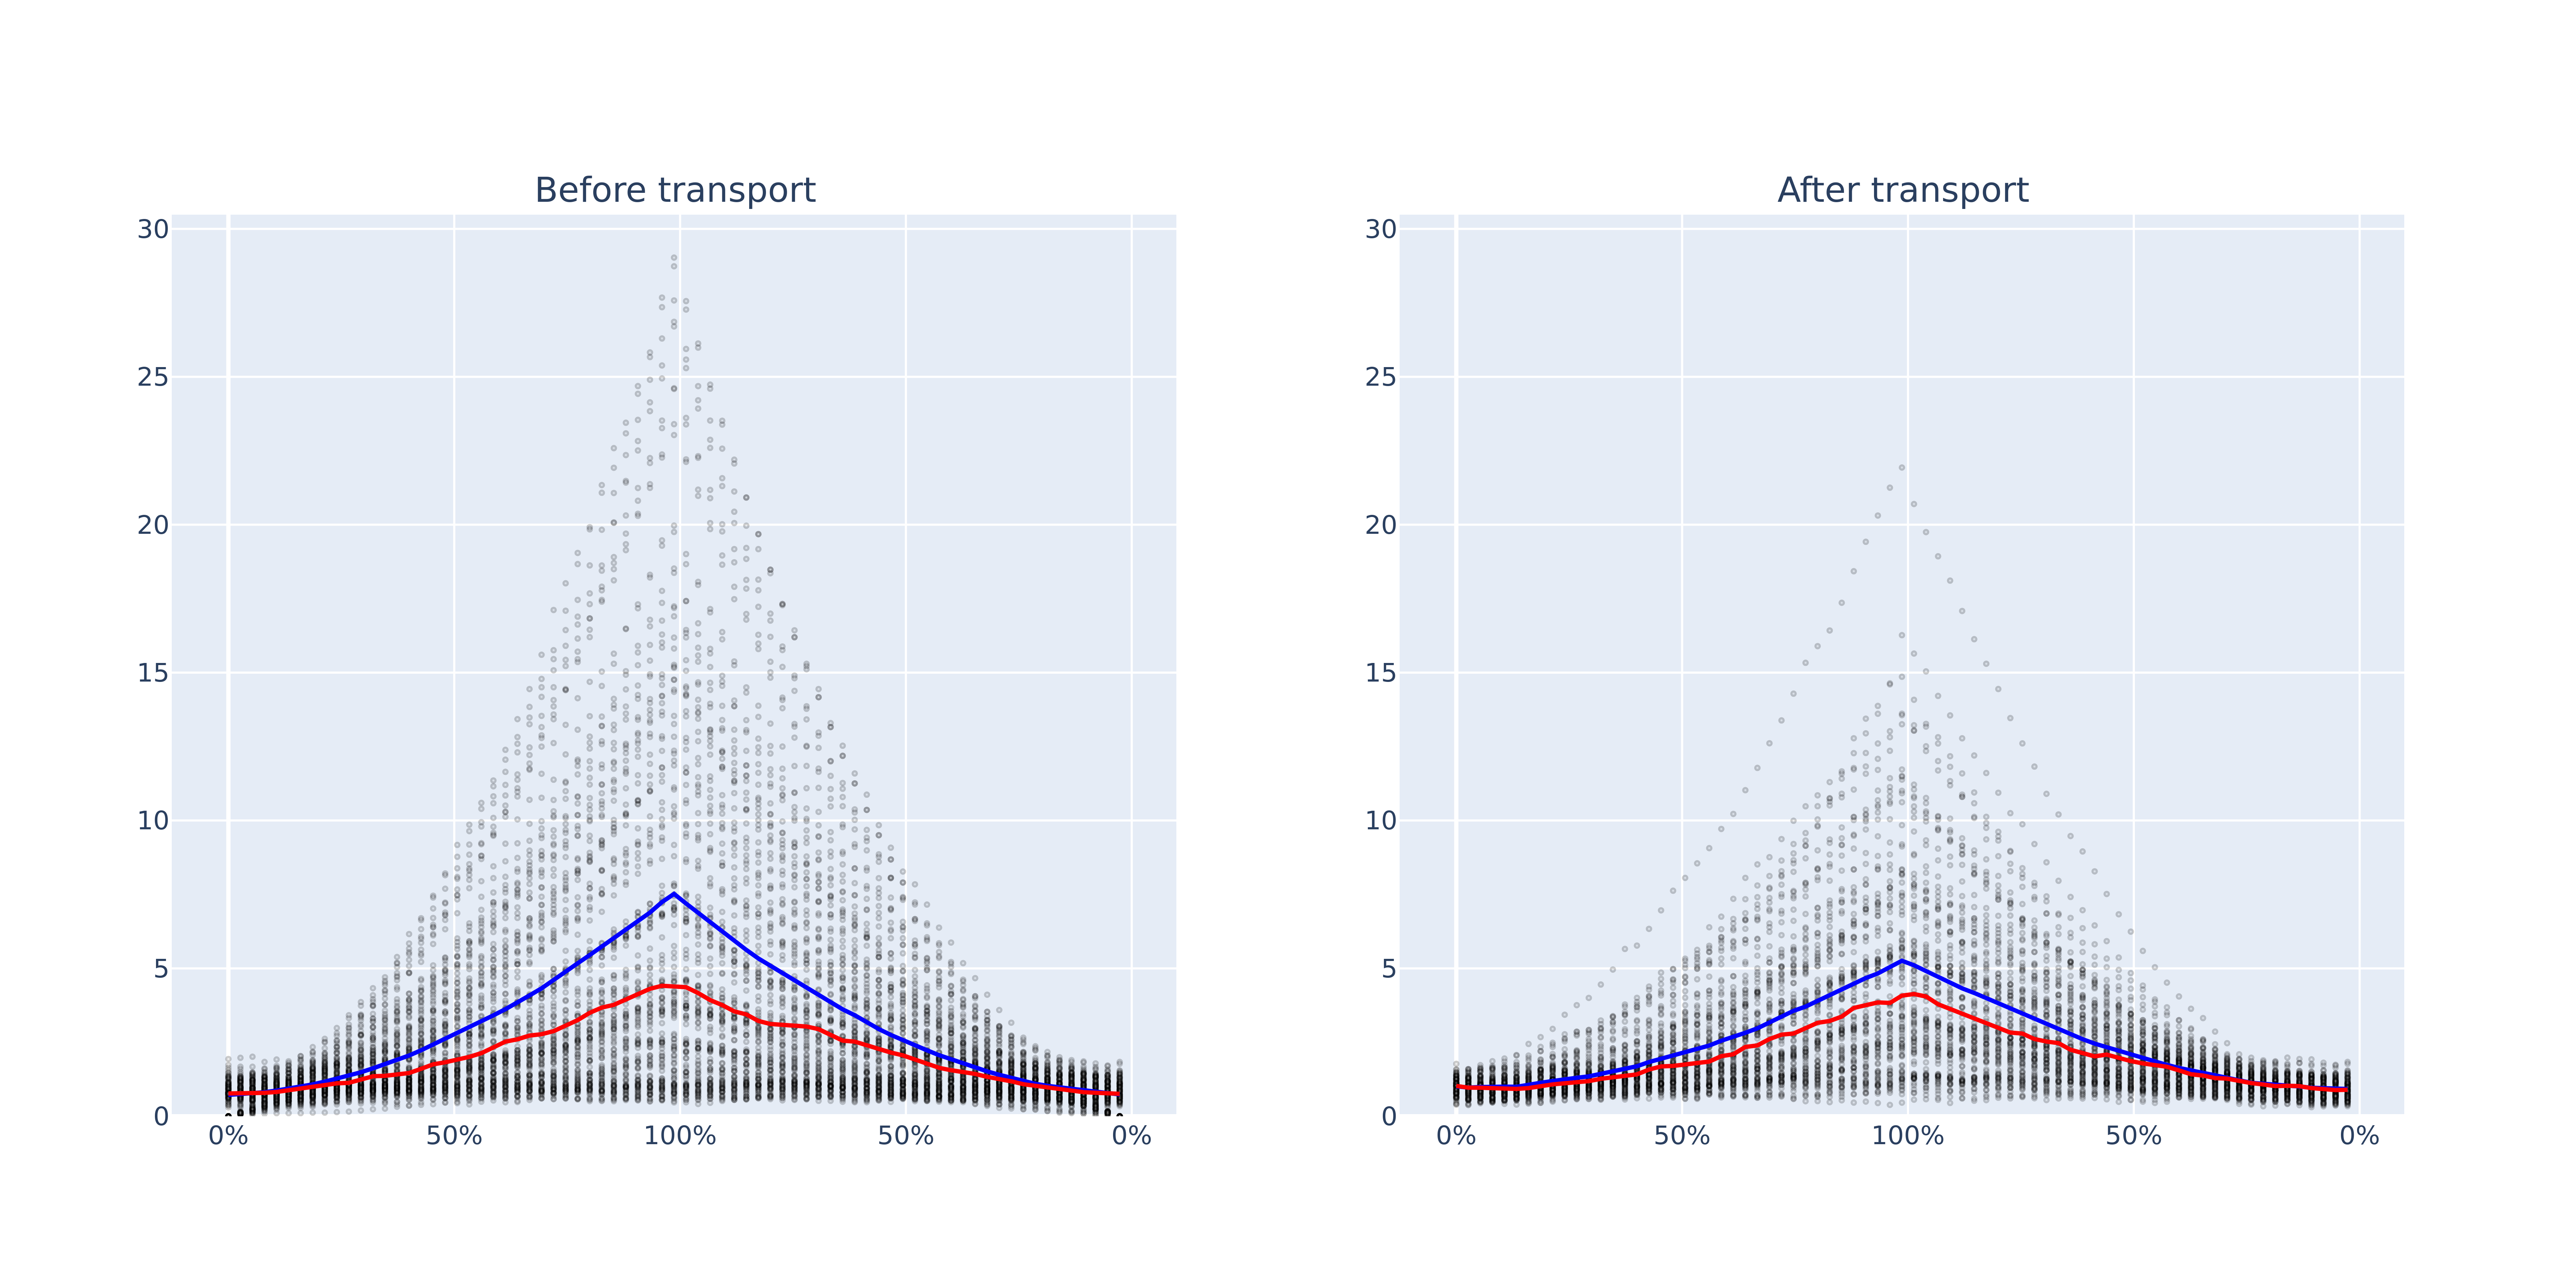
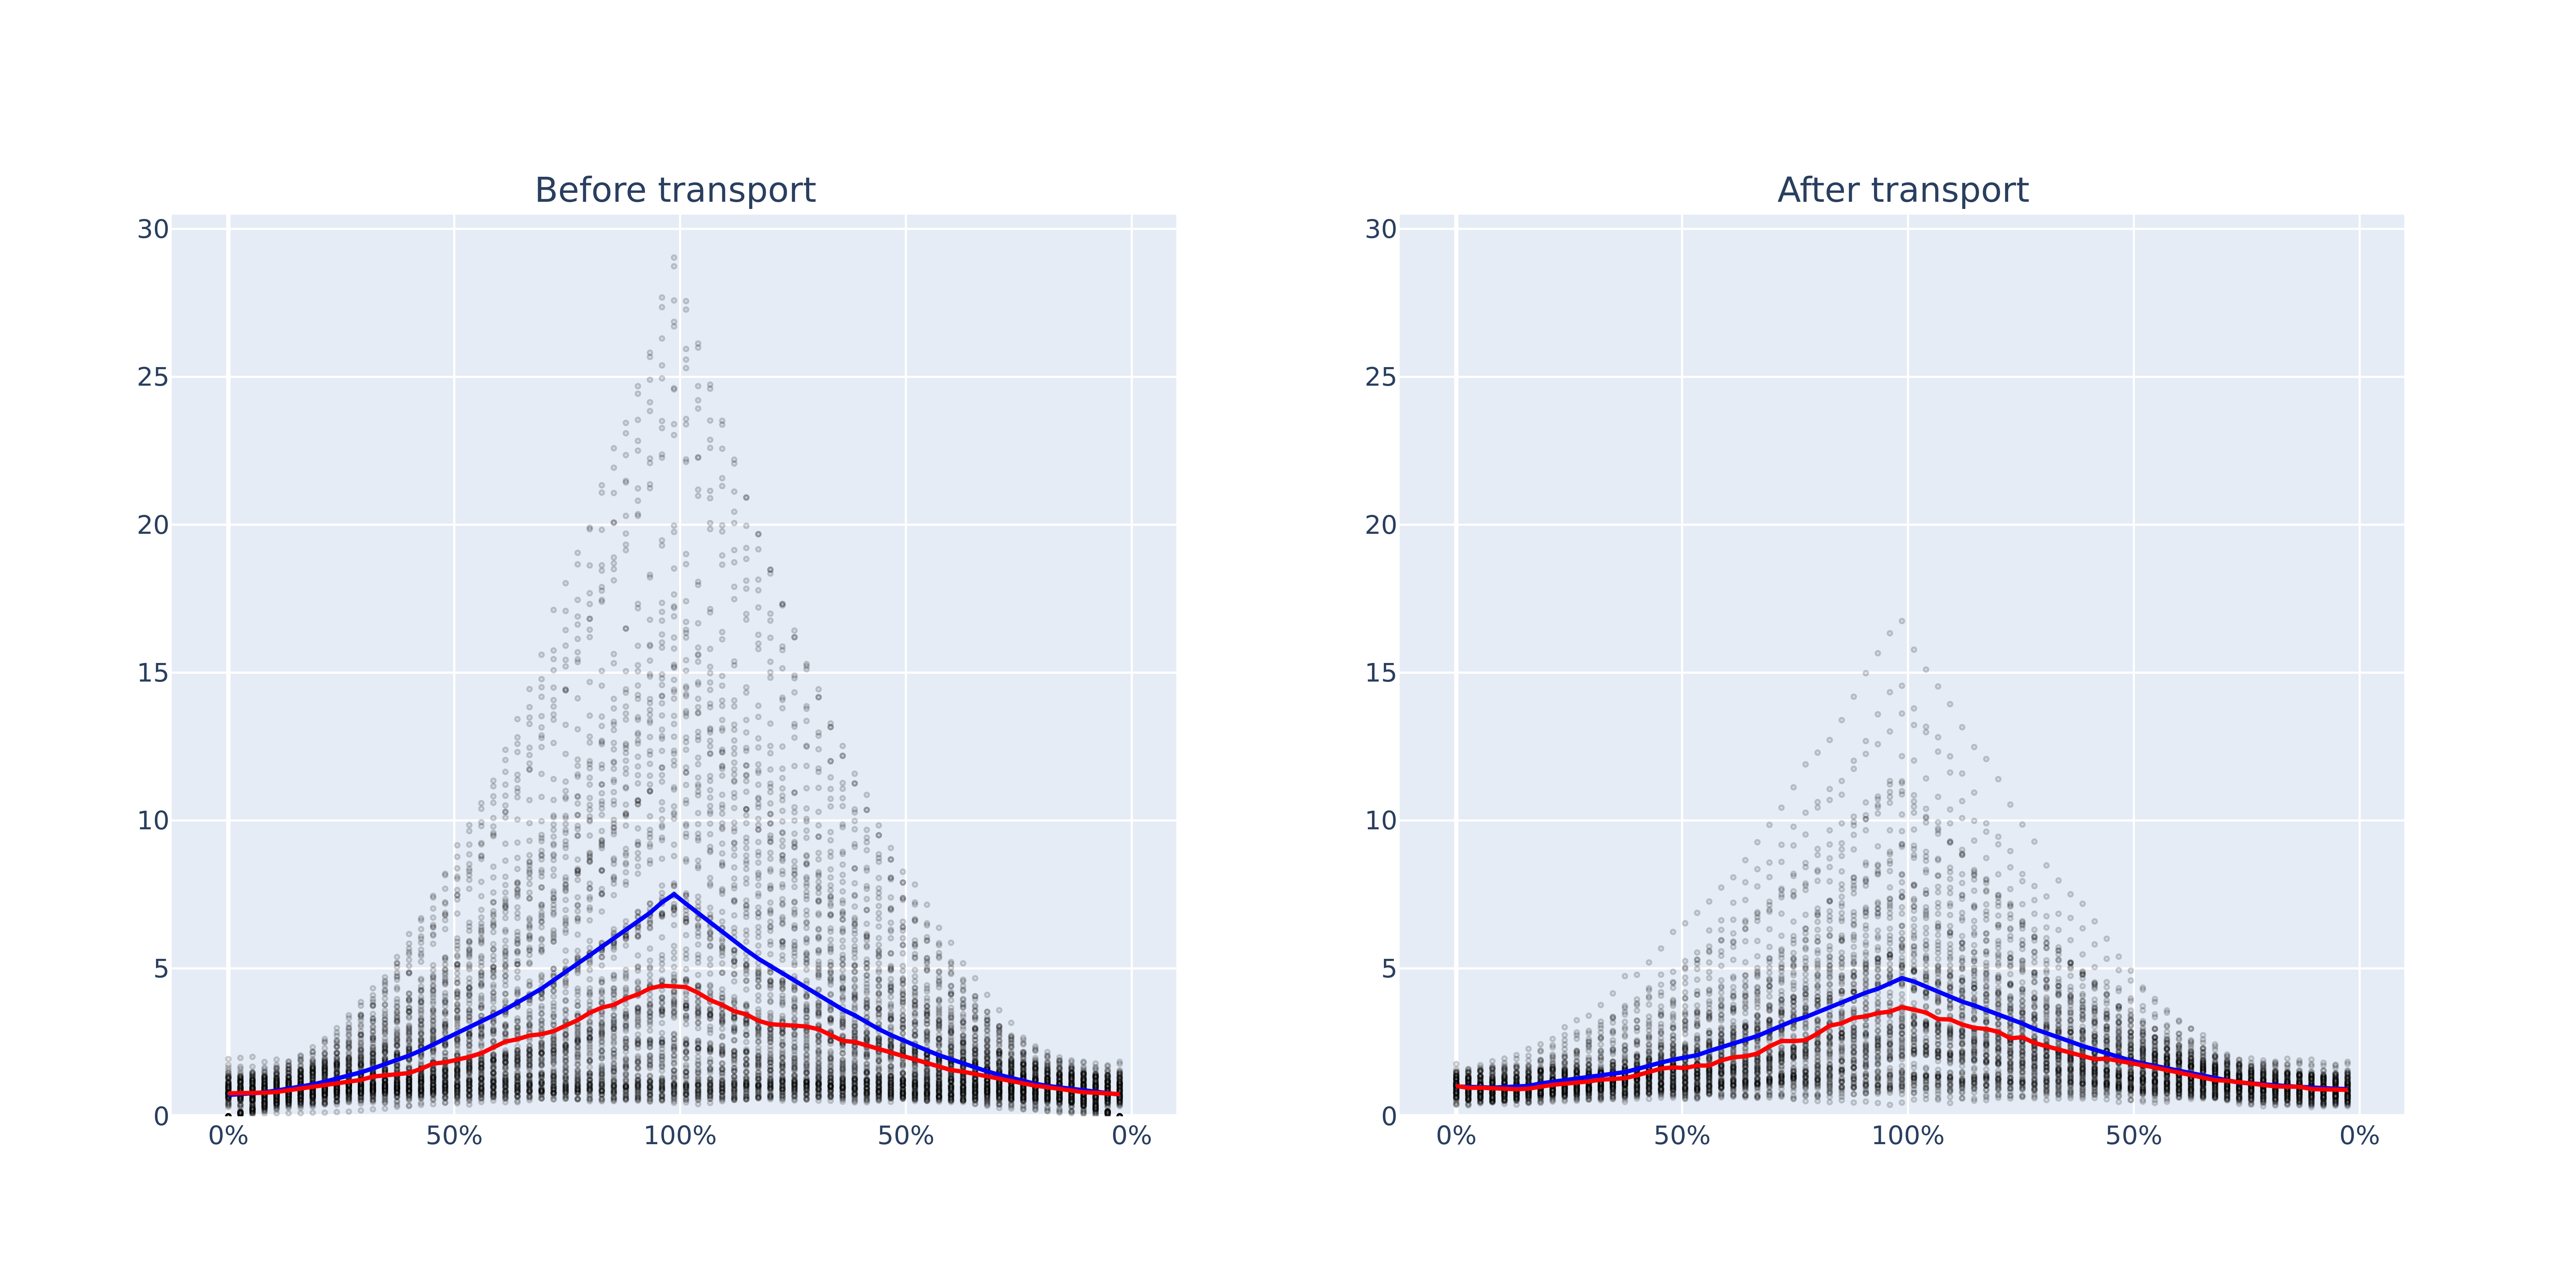
fix titration plots

diff --git a/main.py b/main.py
@@ -1,12 +1,12 @@
 from tests import sanity_check, sanity_check_with_entropy, unsupervised_transport_test, unsupervised_with_entropy_test, split_database_sanity_check, split_database_with_entropy_sanity_check
 
 def main():
-    # sanity_check.SanityCheck(should_run_pcoa=False).run_test()
-    # sanity_check_with_entropy.SanityCheckWithEntropy(epsilon=10**-3.5, should_run_pcoa=True).run_test()
-    # unsupervised_transport_test.UnsupervisedTransportTest(should_run_pcoa=False).run_test()
-    # unsupervised_with_entropy_test.UnsupervisedWithEntropyTest(epsilon=10**-3.5, should_run_pcoa=False).run_test()
-    # split_database_sanity_check.SplitDatabaseSanityCheck(should_run_pcoa=True).run_test()
-    split_database_with_entropy_sanity_check.SplitDatabaseWithEntropySanityCheck(epsilon=10**-3.5, should_run_pcoa=True).run_test()
+    sanity_check.SanityCheck(should_run_pcoa=False).run_test()
+    sanity_check_with_entropy.SanityCheckWithEntropy(epsilon=10**-3.5, should_run_pcoa=False).run_test()
+    unsupervised_transport_test.UnsupervisedTransportTest(should_run_pcoa=False).run_test()
+    unsupervised_with_entropy_test.UnsupervisedWithEntropyTest(epsilon=10**-3.5, should_run_pcoa=False).run_test()
+    split_database_sanity_check.SplitDatabaseSanityCheck(should_run_pcoa=False).run_test()
+    split_database_with_entropy_sanity_check.SplitDatabaseWithEntropySanityCheck(epsilon=10**-3.5, should_run_pcoa=False).run_test()
     print("Done.")
 
 

diff --git a/variance_tests.py b/variance_tests.py
@@ -63,7 +63,7 @@ class Metrics:
 
         def _get_titration_results(combined_data, repeats, seed):
             sample_ids = data_utils.get_sample_ids_by_dataset(combined_data)
-            combined_otu_data = combined_data[data_utils.get_otu_columns(combined_data)].to_numpy()
+            combined_otu_data = data_utils.round_dataframe(5, combined_data[data_utils.get_otu_columns(combined_data)]).to_numpy()
             sample_id_to_index = {sid: i for i, sid in enumerate(combined_data.index)}
 
             datasets = list(sample_ids.keys())
@@ -197,11 +197,10 @@ class Draw:
             for l in range(len(titration_results)):
                 curr_pvals = titration_results[l]
                 fig.add_trace(go.Scatter(x=[l for _ in curr_pvals], y=curr_pvals, mode='markers',
-                            marker=dict(opacity=0.2, color='DarkGrey', size=2, line=dict(color='Black', width=1))),
-                            col=i+1, row=row)
+                              marker=dict(opacity=0.2, color='DarkGrey', size=2, line=dict(color='Black', width=1))),
+                              col=i+1, row=row)
 
-                mean = np.mean(curr_pvals)
-                means.append(mean)
+                means.append(np.mean(curr_pvals))
                 medians.append(np.median(curr_pvals))
                 x.append(l)
                 max_p_val = max(max_p_val, max(curr_pvals))

diff --git a/data_utils.py b/data_utils.py
@@ -9,6 +9,14 @@ def get_otu_columns(data):
     return [c for c in data.columns if (type(c) is int) or (type(c) is str and c.isnumeric())]
 
 
+def round_dataframes(digits, *dataframes):
+    return tuple(df.map(lambda x: round(x, digits) if type(x) == float else x) for df in dataframes)
+
+
+def round_dataframe(digits, dataframe):
+    return round_dataframes(digits, dataframe)[0]
+
+
 def get_sample_ids_by_dataset(combined_data: pd.DataFrame) -> dict:
     """
     Based on code from Guy Shur's thesis (utils.py).

diff --git a/tests/sanity_check_with_entropy.py b/tests/sanity_check_with_entropy.py
@@ -1,9 +1,3 @@
-import os.path
-import pandas as pd
-import numpy as np
-
-import variance_tests
-import data_utils
 from tests.sanity_check import SanityCheck
 from tests.optimal_transport_test_with_entropy import OptimalTransportEntropyTest
 